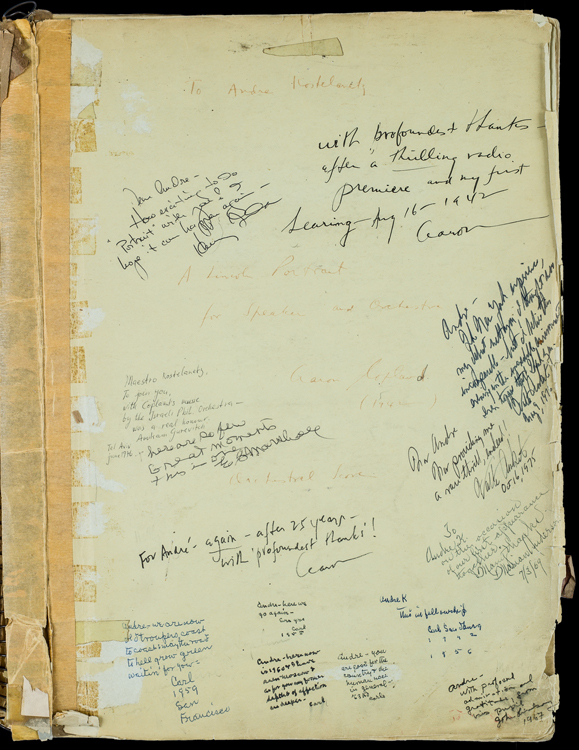
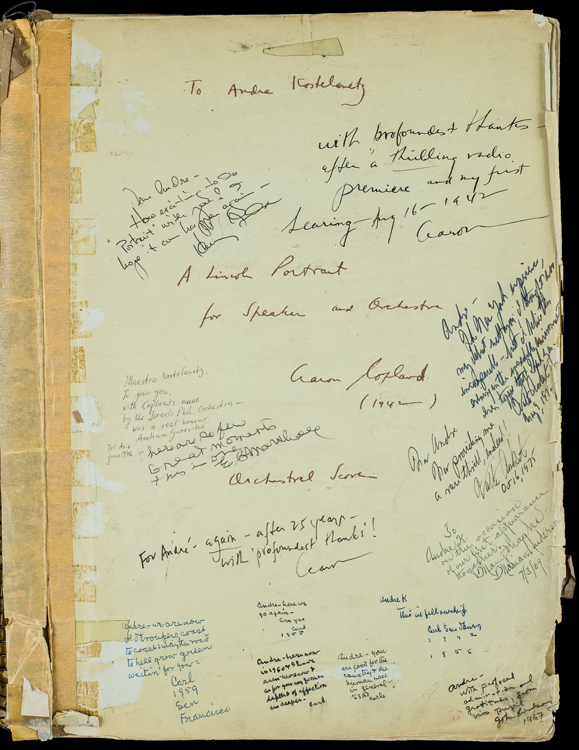
added the enhanced images

diff --git a/app/scripts/tsgAnnotation.js b/app/scripts/tsgAnnotation.js
@@ -129,16 +129,19 @@ var OpenDANnotate = function(){
 
   TSG.Utils.zoom = function(scaleFactor){
     TSG.Images.CurrentImage = TSG.Images.Regular;
+    TSG.Canvas.annotatedImageLeft = document.getElementById('annotated-image-left');
+    TSG.Canvas.annotatedImageRight = document.getElementById('annotated-image-right');
     // if(TSG.Canvas.annotations.scale >= 2.25){
     //   TSG.Canvas.annotatedImageLeft = document.getElementById('annotated-image-left-xl');
     //   TSG.Canvas.annotatedImageRight = document.getElementById('annotated-image-right-xl');
     //   TSG.Images.CurrentImage = TSG.Images.XLarge;
     // }
-    // else if(TSG.Canvas.annotations.scale >= 1.5){
-    //   TSG.Canvas.annotatedImageLeft = document.getElementById('annotated-image-left-lg');
-    //   TSG.Canvas.annotatedImageRight = document.getElementById('annotated-image-right-lg');
-    //   TSG.Images.CurrentImage = TSG.Images.Large;
-    // }
+    // else
+    if(TSG.Canvas.annotations.scale === 1){
+      TSG.Canvas.annotatedImageLeft = document.getElementById('annotated-image-left-lg');
+      TSG.Canvas.annotatedImageRight = document.getElementById('annotated-image-right-lg');
+      TSG.Images.CurrentImage = TSG.Images.Large;
+    }
 
     //use recursion to ease the zoom;
     var pt = TSG.Canvas.ctx.transformedPoint(TSG.Images.CurrentImage.canvasWidth/2,TSG.Images.CurrentImage.canvasHeight/2);
@@ -153,13 +156,15 @@ var OpenDANnotate = function(){
   TSG.Utils.redraw = function redraw(){
     // Clear the entire canvas
     var p1 = TSG.Canvas.ctx.transformedPoint(0,0);
-    var p2 = TSG.Canvas.ctx.transformedPoint(TSG.Canvas.canvas.width,TSG.Canvas.canvas.height);
+    var p2 = TSG.Canvas.ctx.transformedPoint(TSG.Images.CurrentImage.canvasWidth,TSG.Images.CurrentImage.canvasHeight);
     TSG.Canvas.ctx.clearRect(p1.x,p1.y,p2.x-p1.x,p2.y-p1.y);
     TSG.Utils.drawImage(TSG.Canvas.ctx);
   }
 
   TSG.Utils.reset = function reset() {
     TSG.Images.CurrentImage = TSG.Images.Regular;
+    TSG.Canvas.annotatedImageLeft = document.getElementById('annotated-image-left');
+    TSG.Canvas.annotatedImageRight = document.getElementById('annotated-image-right');
     TSG.Canvas.canvas.width = TSG.Images.Regular.canvasWidth;
     TSG.Canvas.canvas.height = TSG.Images.Regular.canvasHeight;
 

diff --git a/app/index.html b/app/index.html
@@ -367,9 +367,9 @@
             <canvas id="c"></canvas>
             <img id="annotated-image-left" src="images/LincolnLeft-reg.jpg" height="500px" width="400px" style="display:none"/>
             <img id="annotated-image-right" src="images/LincolnRight-reg.jpg" height="500px" width="400px" style="display:none"/>
-            <!-- <img id="annotated-image-left-lg" src="images/LincolnLeft-lg.jpg" height="500px" width="400px" style="display:none"/>
+            <img id="annotated-image-left-lg" src="images/LincolnLeft-lg.jpg" height="500px" width="400px" style="display:none"/>
             <img id="annotated-image-right-lg" src="images/LincolnRight-lg.jpg" height="500px" width="400px" style="display:none"/>
-            <img id="annotated-image-left-xl" src="images/LincolnLeft-xl.jpg" height="500px" width="400px" style="display:none"/>
+            <!-- <img id="annotated-image-left-xl" src="images/LincolnLeft-xl.jpg" height="500px" width="400px" style="display:none"/>
             <img id="annotated-image-right-xl" src="images/LincolnRight-xl.jpg" height="500px" width="400px" style="display:none"/> -->
             <br/>
             <button id="zoomOut" class="btn btn-default btn-lg">

diff --git a/app/scripts/backup3.js b/app/scripts/backup3.js
@@ -95,9 +95,6 @@ var OpenDANnotate = function(){
     TSG.Canvas.ctx.translate(-pt.x,-pt.y);
     TSG.Canvas.annotations.changeScale(scaleFactor);
     TSG.Utils.redraw();
-    if(scaleFactor !== 1.5 && scaleFactor !== 1/1.5){
-      TSG.Utils.zoom()
-    }
   }
 
   TSG.Utils.redraw = function redraw(){
